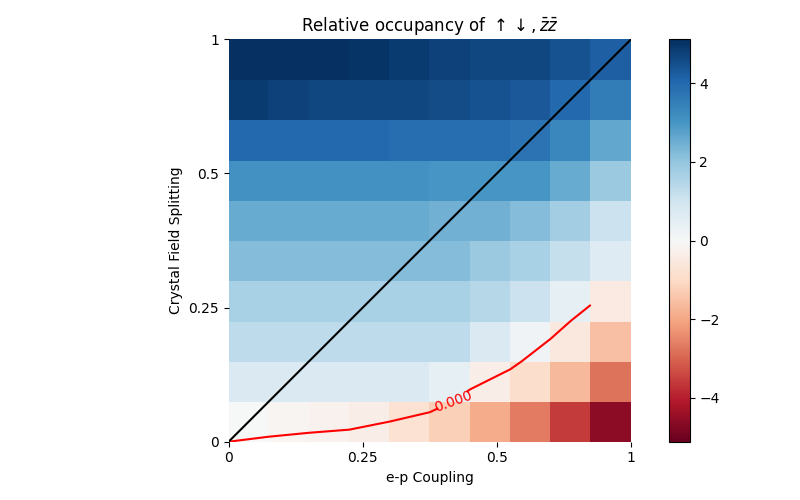
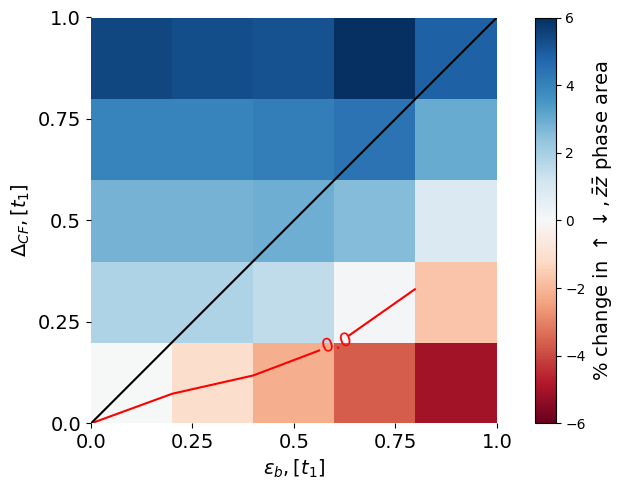
2d map

diff --git a/Code/Display/two_d_map.py b/Code/Display/two_d_map.py
@@ -1,0 +1,92 @@
+import matplotlib.patches as mpatches
+import Code.Utils as Utils
+import Code.Nickelates.Interpreter as In
+import matplotlib.pyplot as plt
+import numpy as np
+import os
+
+
+def two_d_subplot(Phase, ind, ax, css, oss, uniques, font):
+    # Cutting at 0.2
+    len_x, len_y = Phase.shape[:2]
+    Phase = Phase[:, :int(0.8*len_y)]
+    CM = Phase[:, :, 0]
+    spin_orb = Phase[:, :, 1]
+    OS = Phase[:, :, 2]
+    uniques.append(np.unique(spin_orb).astype(int))
+
+    ax[ind].set(frame_on=False)
+
+    ax[ind].set_xticks([0, 0.25, 0.5, 0.75, 1])
+    ax[ind].xaxis.set_ticks_position('bottom')
+
+    ax[ind].set_yticks([0, 0.0625, 0.125, 0.1875, 0.25])
+    ax[ind].yaxis.set_ticks_position('left')
+
+    i, j = ind
+    if i == len(ax) - 1:
+        ax[ind].set_xlabel('\n'+r'$\epsilon_b$ = '+str(0.25*j), fontsize=font)
+        ax[ind].set_xticklabels([0, '', 0.5, '', 1])
+    if j == 0:
+        ax[ind].set_ylabel(r'$\Delta_{ct}$ = '+str(0.25*(2-i))+'\n', fontsize=font)
+        ax[ind].set_yticklabels([0, '', 0.1, '', 0.2])
+
+    if ind == (2, 0):
+        ax[ind].set_xlabel(r'$U/W$'+'\n'+r'$\epsilon_b$ = 0', fontsize=font)
+        ax[ind].set_ylabel(r'$\Delta_{CF}$ = 0'+'\n'+r'$ J/W$', fontsize=font)
+
+    # Charge Contour
+    css[ind] = ax[ind].contour(np.abs(CM.T), colors='black', levels=[0.1, 0.3, 0.5],
+                         linewidths=1.5, extent=(0, 1, 0, 0.25))
+    ax[ind].clabel(css[ind], inline=True, fontsize=font, fmt='% 1.1f')
+
+    oss[ind] = ax[ind].contour(np.abs(OS.T), colors='purple', levels=[0.1, 0.5],
+                         linestyles='dashed', linewidths=1.5, extent=(0, 1, 0, 0.25))
+
+    ax[ind].clabel(oss[ind], inline=True, fontsize=font, fmt='% 1.1f')
+
+    ax[ind].grid(linewidth=0)
+
+    cmap = In.custom_cmap
+    norm = In.custom_norm
+
+    ax[ind].imshow(np.rot90(spin_orb), cmap=cmap, norm=norm, aspect='auto', extent=(0, 1, 0, 0.25))
+
+
+def make_2d_map(Results_Folder, Batch_Folder, font=18):
+    folder_list = sorted(os.listdir(os.path.join(Results_Folder, Batch_Folder)))
+    fig, ax = plt.subplots(3, 3, sharex=True, sharey=True, figsize=(12, 9))
+    css = np.empty((3, 3), dtype=object)
+    oss = np.empty((3, 3), dtype=object)
+
+    uniques = []
+
+    indices = [
+        (2, 0),
+        (1, 0),
+        (0, 0),
+        (2, 1),
+        (1, 1),
+        (0, 1),
+        (2, 2),
+        (1, 2),
+        (0, 2),
+    ]
+
+    for i, folder in enumerate(folder_list):
+        ind = indices[i]
+        print('Processing: ', folder, ind)
+        frf = os.path.join(Results_Folder, Batch_Folder, folder, 'Final_Results')
+        Solutions_folder = os.path.join(frf, 'MF_Solutions')
+        MF = Utils.Read_MFPs(Solutions_folder)
+        Phase = In.array_interpreter(MF)
+        two_d_subplot(Phase, ind, ax, css, oss, uniques, font=font)
+
+    uniques = np.unique(np.concatenate(uniques, axis=0))
+    col_dict = In.col_dict
+    patches = [mpatches.Patch(color=col_dict[state], label=In.pos_to_label[state]) for state in uniques]
+    legend = fig.legend(handles=patches, bbox_to_anchor=(1.151, 0.977), borderaxespad=0.0, prop={"size": font})
+
+    plt.tight_layout()
+    plt.savefig(os.path.join(Results_Folder, Batch_Folder+'.png'),
+                bbox_extra_artists=[legend], bbox_inches='tight')

diff --git a/Code/Display/ResultsPlots.py b/Code/Display/ResultsPlots.py
@@ -80,7 +80,11 @@ def feature_plot(feature, i_label, i_values, j_label, j_values, results_folder, 
     plt.close()
 
 
-def phases_plot(Phase, i_label, i_values, j_label, j_values, results_folder, show, transparent):
+def phases_plot(Phase, i_label, i_values, j_label, j_values, results_folder, show, transparent, font=20):
+    # Cutting at 0.2
+    len_x, len_y = Phase.shape[:2]
+    Phase = Phase[:, :int(0.8*len_y)]
+
     CM = Phase[:, :, 0]
     spin_orb = Phase[:, :, 1]
     OS = Phase[:, :, 2]
@@ -94,8 +98,8 @@ def phases_plot(Phase, i_label, i_values, j_label, j_values, results_folder, sho
     f, ax = plt.subplots(figsize=(8, 5))  # or 6,5 without legend
     # ax.set_xlabel(i_label)
     # ax.set_ylabel(j_label)
-    ax.set_xlabel(r'$'+i_label+', [t_1]$', fontsize=20)
-    ax.set_ylabel(r'$'+j_label+', [t_1]$', fontsize=20)
+    ax.set_xlabel(r'$'+i_label+'$', fontsize=font)
+    ax.set_ylabel(r'$'+j_label+'$', fontsize=font)
 
     ax.set(frame_on=False)
 
@@ -109,8 +113,8 @@ def phases_plot(Phase, i_label, i_values, j_label, j_values, results_folder, sho
     ax.set_xticklabels([0, '', 0.5, '', 1])
     ax.xaxis.set_ticks_position('bottom')
 
-    ax.set_yticks([0, 0.05, 0.1, 0.15, 0.2, 0.25])
-    ax.set_yticklabels([0, '', 0.1, '', 0.2, 0.25])
+    ax.set_yticks([0, 0.0625, 0.125, 0.1875, 0.25])
+    ax.set_yticklabels([0, '', 0.1, '', 0.2])
     ax.yaxis.set_ticks_position('left')
 
     plt.tick_params(axis='both', which='major', labelsize=16)
@@ -118,11 +122,12 @@ def phases_plot(Phase, i_label, i_values, j_label, j_values, results_folder, sho
     # Charge Contour
     CS = ax.contour(np.abs(CM.T), colors='red', levels=[0.1, 0.3, 0.5],
                     linewidths=2, extent=(0, 1, 0, 0.25))
-    ax.clabel(CS, inline=True, fontsize=14)
+    ax.clabel(CS, inline=True, fontsize=14, fmt='% 1.1f')
 
     OS = ax.contour(np.abs(OS.T), colors='purple', levels=[0.1, 0.5],
                     linestyles='dashed', linewidths=2, extent=(0, 1, 0, 0.25))
-    ax.clabel(OS, inline=True, fontsize=14)
+
+    ax.clabel(OS, inline=True, fontsize=14, fmt='% 1.1f')
     ax.grid(linewidth=0)
 
     # spin-orbit
@@ -133,7 +138,7 @@ def phases_plot(Phase, i_label, i_values, j_label, j_values, results_folder, sho
     ax.imshow(np.rot90(spin_orb), cmap=cmap, norm=norm, aspect='auto', extent=(0, 1, 0, 0.25))
 
     patches = [mpatches.Patch(color=col_dict[state], label=In.pos_to_label[state]) for state in unique_states]
-    ax.legend(handles=patches, bbox_to_anchor=(1.1, 1), loc=2, borderaxespad=0.0, prop={"size": 13})
+    ax.legend(handles=patches, bbox_to_anchor=(1.01, 1), loc=2, borderaxespad=0.0, prop={"size": font}, fontsize=font)
     plt.tight_layout()
 
     if results_folder is not None:
@@ -214,7 +219,7 @@ def difference_plots(features, arrays, i_label, i_values,
     plt.legend(prop={"size": 13})
 
     if results_folder is not None:
-        plt.savefig(results_folder +'/Plots/multi_differences.png', transparent=transparent)
+        plt.savefig(results_folder +'/Plots/multi_differences.png', transparent=transparent, bbox_inches='tight')
     if show:
         plt.show()
     plt.close()

diff --git a/Examples/Postprocess.py b/Examples/Postprocess.py
@@ -1,0 +1,53 @@
+import shutil
+import numpy as np
+import os
+from Code.Nickelates.Hamiltonian import Hamiltonian
+from Code.Display.two_d_map import make_2d_map
+from Code.Display.ResultsPlots import sweeper_plots
+
+i, j = 'U', 'J'
+i_values = np.linspace(0, 1, 30)
+j_values = np.linspace(0, 0.25, 30)
+bw_norm = True
+Model = Hamiltonian()
+
+make_map = True
+process_guesses = False
+full_analysis = False
+
+Batch_Folders = ['strain_zero', 'strain_tensile', 'strain_compressive']
+Results_Folder = 'Final_Results'
+
+for Batch_Folder in Batch_Folders:
+    if make_map:
+        make_2d_map(Results_Folder, Batch_Folder)
+    folder_list = sorted(os.listdir(os.path.join(Results_Folder, Batch_Folder)))
+    folder_list = folder_list[:1]
+
+    for folder in folder_list:
+        frf = os.path.join(Results_Folder, Batch_Folder, folder, 'Final_Results')
+        if os.path.exists(frf):
+            print('Processing: ', folder)
+            if full_analysis:
+                sweeper_plots(i, i_values, j, j_values, Model.Dict,
+                              frf, BW_norm=bw_norm, show=False)
+
+            if process_guesses:
+                guesses_folder = os.path.join(
+                    'Results', Batch_Folder, folder, 'Guesses_Results')
+                for guess in os.listdir(guesses_folder):
+                    guess = os.path.join(guesses_folder, guess)
+                    print('Processing guess:', guess)
+                    sweeper_plots(i, i_values, j, j_values, Model.Dict,
+                                  guess, BW_norm=True)
+
+    if full_analysis:
+        Diagrams_Folder = os.path.join(Results_Folder, Batch_Folder+'_diags')
+        os.makedirs(Diagrams_Folder, exist_ok=True)
+
+        for folder in folder_list:
+            frf = os.path.join(Results_Folder, Batch_Folder, folder, 'Final_Results')
+            if os.path.exists(frf):
+                diagram = os.path.join(frf, 'Plots', 'PhaseDiagram.png')
+                out = os.path.join(Diagrams_Folder, folder+'.png')
+                shutil.copy(diagram, out)

diff --git a/Code/Scripts/metadiagrams.py b/Code/Scripts/metadiagrams.py
@@ -57,21 +57,28 @@ def Diagram_stats(mfps, phase):
         return counts[phase_ind]
 
 
-def make_meta_fig(MetaArray, meta_args):
+def make_meta_fig(MetaArray, meta_args, font=14):
     f, ax = plt.subplots(figsize=(8, 5))
-    ax.set_xlabel(meta_args['x_label'])
-    ax.set_ylabel(meta_args['y_label'])
+    # ax.set_xlabel(meta_args['x_label'])
+    # ax.set_ylabel(meta_args['y_label'])
+
+    ax.set_xlabel(r'$\epsilon_b, [t_1]$', fontsize=font)
+    ax.set_ylabel(r'$\Delta_{CF}, [t_1]$', fontsize=font)
+
     ax.set(frame_on=False)
-    ax.set_title(r'Relative occupancy of $\uparrow \downarrow,  \bar{z} \bar{z}$')
+    # ax.set_title(r'Relative occupancy of $\uparrow \downarrow,  \bar{z} \bar{z}$')
 
     CS = ax.contour(MetaArray.T, colors='red', levels=[0])
-    ax.clabel(CS, inline=True, fontsize=10)
+    ax.clabel(CS, inline=True, fontsize=font, fmt='% 1.1f')
 
     ax.plot([0., len(meta_args['x_values'])], [0, len(meta_args['y_values'])], c='black')
 
     CM = ax.pcolormesh(MetaArray.T, cmap='RdBu', vmin=-np.max(np.abs(MetaArray)), vmax=np.max(np.abs(MetaArray)))
-    plt.colorbar(CM)
+    # plt.colorbar(CM)
+    cbar = plt.colorbar(CM)
+    cbar.ax.set_ylabel(r'% change in $\uparrow \downarrow, \bar{z} \bar{z}$ phase area', fontsize=font)
 
+    plt.tick_params(axis='both', which='major', labelsize=font)
     x_values = meta_args['x_values']
     y_values = meta_args['y_values']
     N_x = np.min([len(x_values), 5])
@@ -86,5 +93,5 @@ def make_meta_fig(MetaArray, meta_args):
 
     ax.set_aspect('equal')
     plt.tight_layout()
-    plt.savefig('metadiag.png')
+    plt.savefig('MetaDiagram.png', bbox_inches='tight')
     plt.show()

diff --git a/Diagrams.py b/Diagrams.py
@@ -13,8 +13,8 @@ logging = True
 
 sweeper_args = dict(
     variables=['U', 'J'],
-    values_list=[np.linspace(0, 1, 30),
-                 np.linspace(0, 0.25, 30)],
+    values_list=[np.linspace(0, 1, 3),
+                 np.linspace(0, 0.2, 3)],
     bw_norm=True,
     save_guess_mfps=True,
     verbose=True,
@@ -24,7 +24,7 @@ sweeper_args = dict(
 solver_args = dict(
     method='sigmoid',
     beta=1.5,
-    Iteration_limit=150,
+    Iteration_limit=250,
     tolerance=1e-3,
     tol=1e-3,
     )
@@ -39,10 +39,9 @@ params_list = [
 ]
 
 hyper_params = {
-    'eps': np.linspace(0, 1, 5),
-    'Delta_CT': np.linspace(0, 1, 5),
-    'Filling': np.linspace(0.225, 0.275, 3),
-    'stress': np.linspace(-5, 5, 11),
+    'eps': np.linspace(0, 1, 10),
+    'Delta_CT': np.linspace(0, 1, 10),
+    'stress': np.linspace(-1, 1, 3),
 }
 
 keys, values = zip(*hyper_params.items())

diff --git a/Code/Nickelates/Interpreter.py b/Code/Nickelates/Interpreter.py
@@ -197,8 +197,8 @@ norm_bins = np.insert(norm_bins, 0, np.min(norm_bins) - 1.0)
 custom_norm = matplotlib.colors.BoundaryNorm(norm_bins, len_lab, clip=True)
 
 
-print(f'Total Possible States: {N_possible_states}')
-# phase_to_label(np.array([1, -1, -1, -1]))
+# print(f'Total Possible States: {N_possible_states}')
+# print(phase_to_label(np.array([1, -1, -1, -1])))
 # print(vec_to_int(symetries(np.array([1, -1, -1, -1]))))
 # print(state_to_pos[4222])
 # print(pos_to_label[114])

diff --git a/Examples/MetaDiagram.py b/Examples/MetaDiagram.py
@@ -14,13 +14,13 @@ sweeper_args = dict(
     )
 
 meta_args = dict(
-    x_label='Delta_CT',
-    y_label='stress',
+    x_label='eps',
+    y_label='Delta_CT',
     x_values=np.linspace(0, 1, 5),
-    y_values=np.linspace(-5, 5, 11),
-    tracked_state=106,
+    y_values=np.linspace(0, 1, 5),
+    tracked_state=102,
     Batch_Folder='Doping_025',
-    load=False,
+    load=True,
     )
 
 MetaArray = metadiagrams.get_meta_array(model_params, sweeper_args, meta_args)

diff --git a/Examples/Single_PT_Iteration.py b/Examples/Single_PT_Iteration.py
@@ -1,10 +1,10 @@
 import numpy as np
 import Code.Scripts.single_point as sp
 
-model_params = dict(
-    U=1.2,
-    J=0.6
-    )
+# model_params = dict(
+#     U=1.2,
+#     J=0.6
+#     )
 
 # model_params = dict(
 #     U=4.8,
@@ -16,10 +16,10 @@ model_params = dict(
 #     J=0.6
 #     )
 
-# model_params = dict(
-#     U=3.0,
-#     J=1.2,
-#     )
+model_params = dict(
+    U=3.0,
+    J=1.2,
+    )
 
 
 solver_args = dict(
